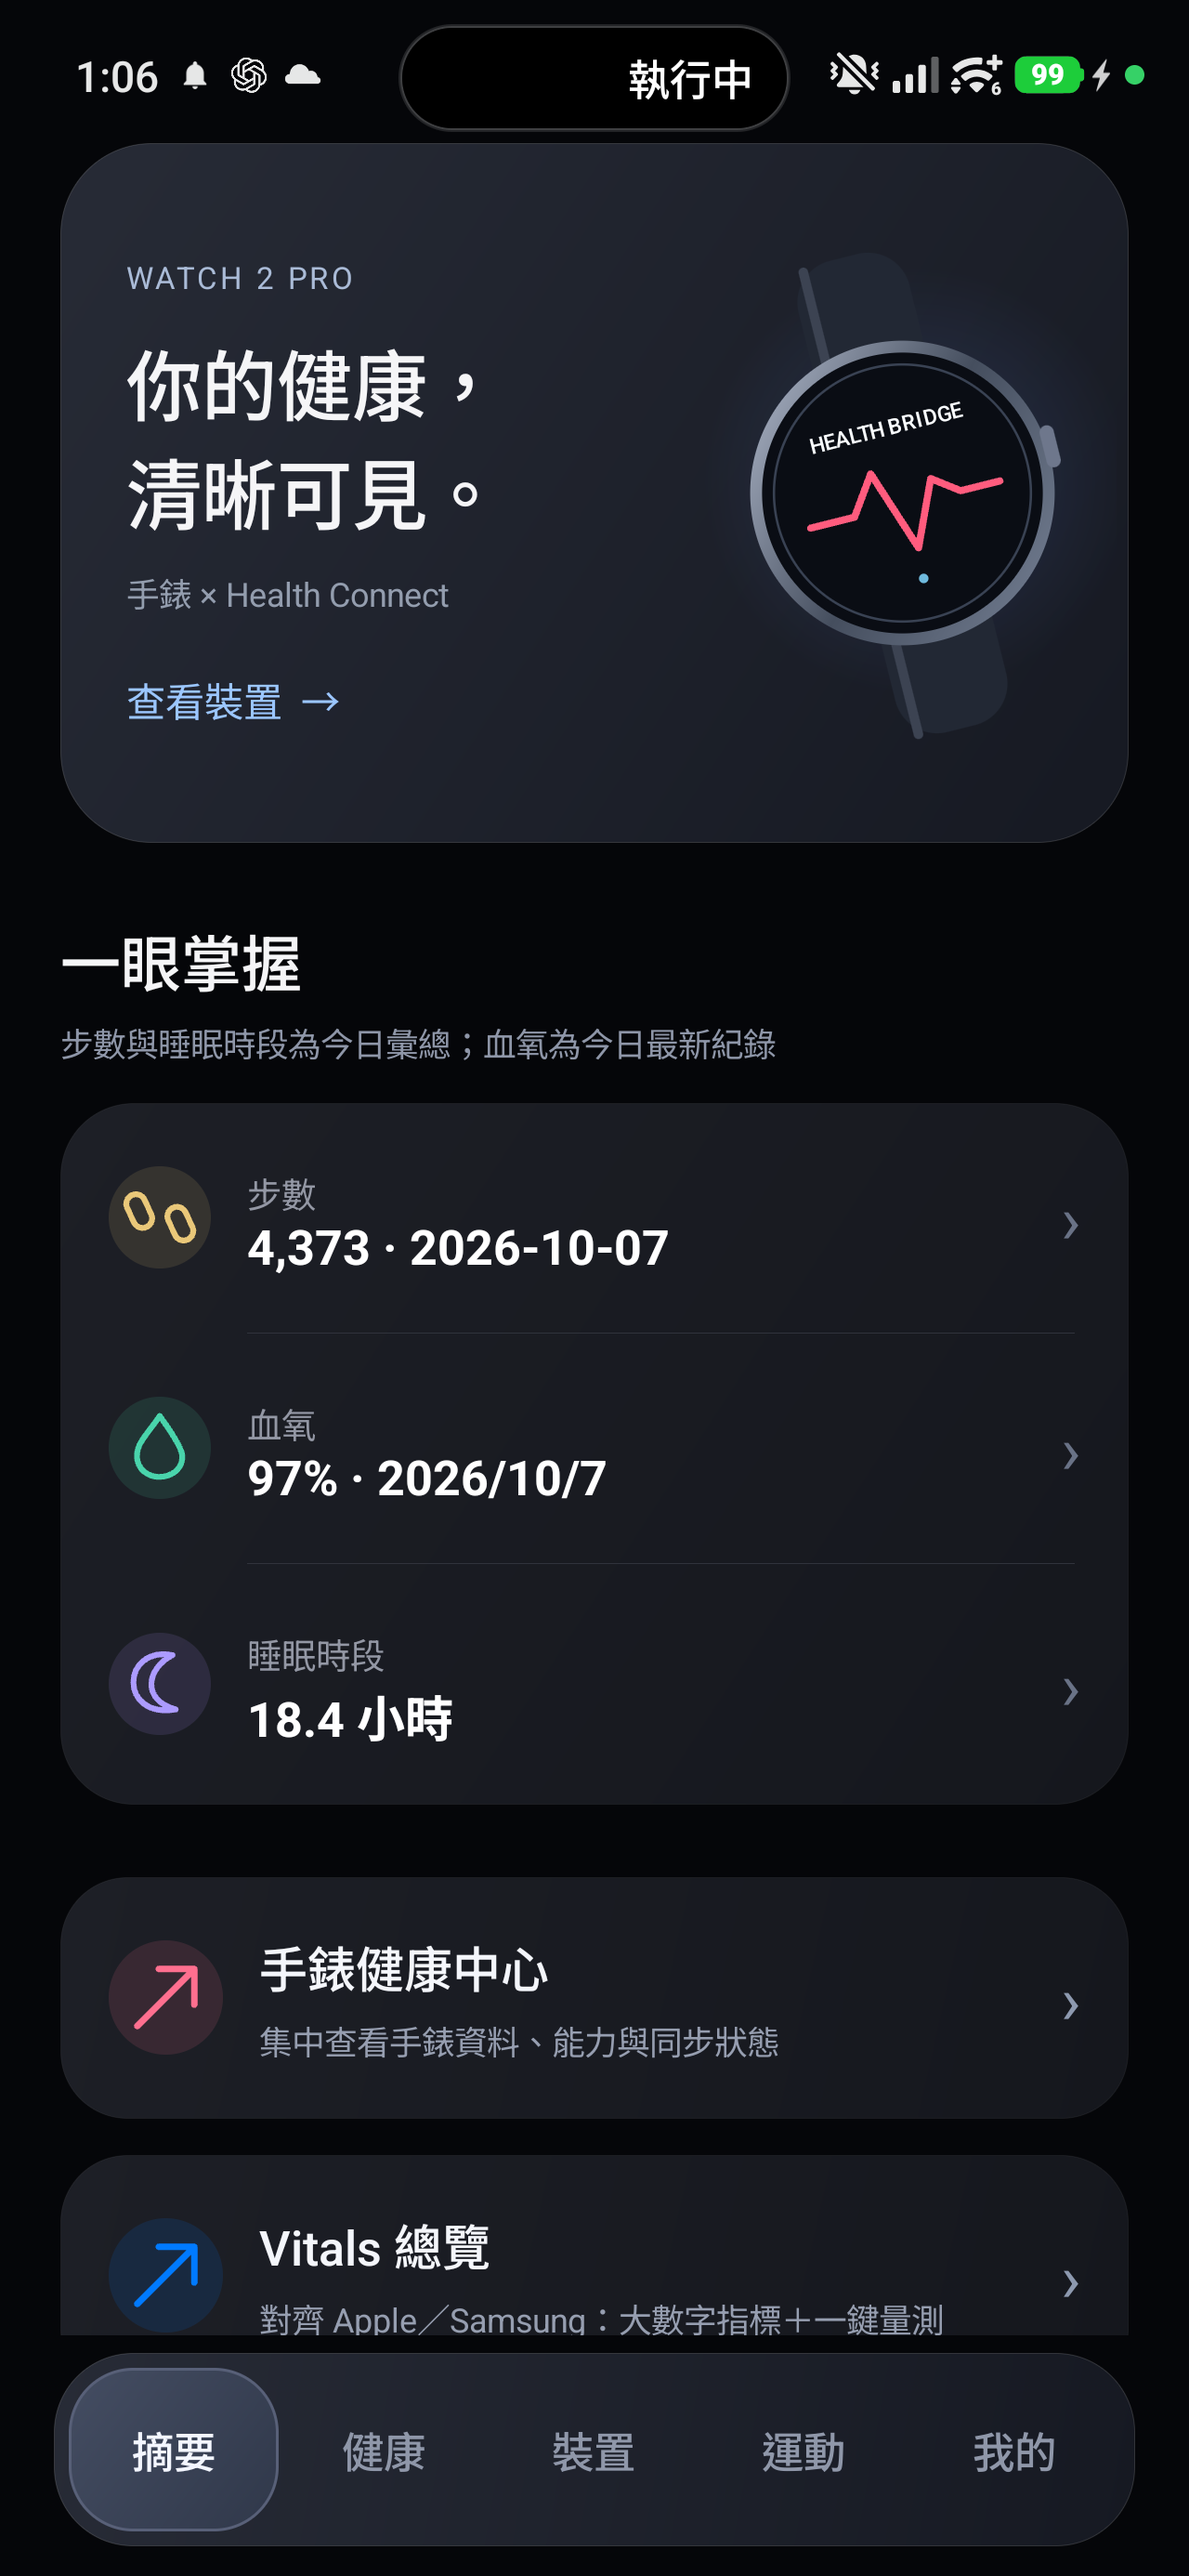
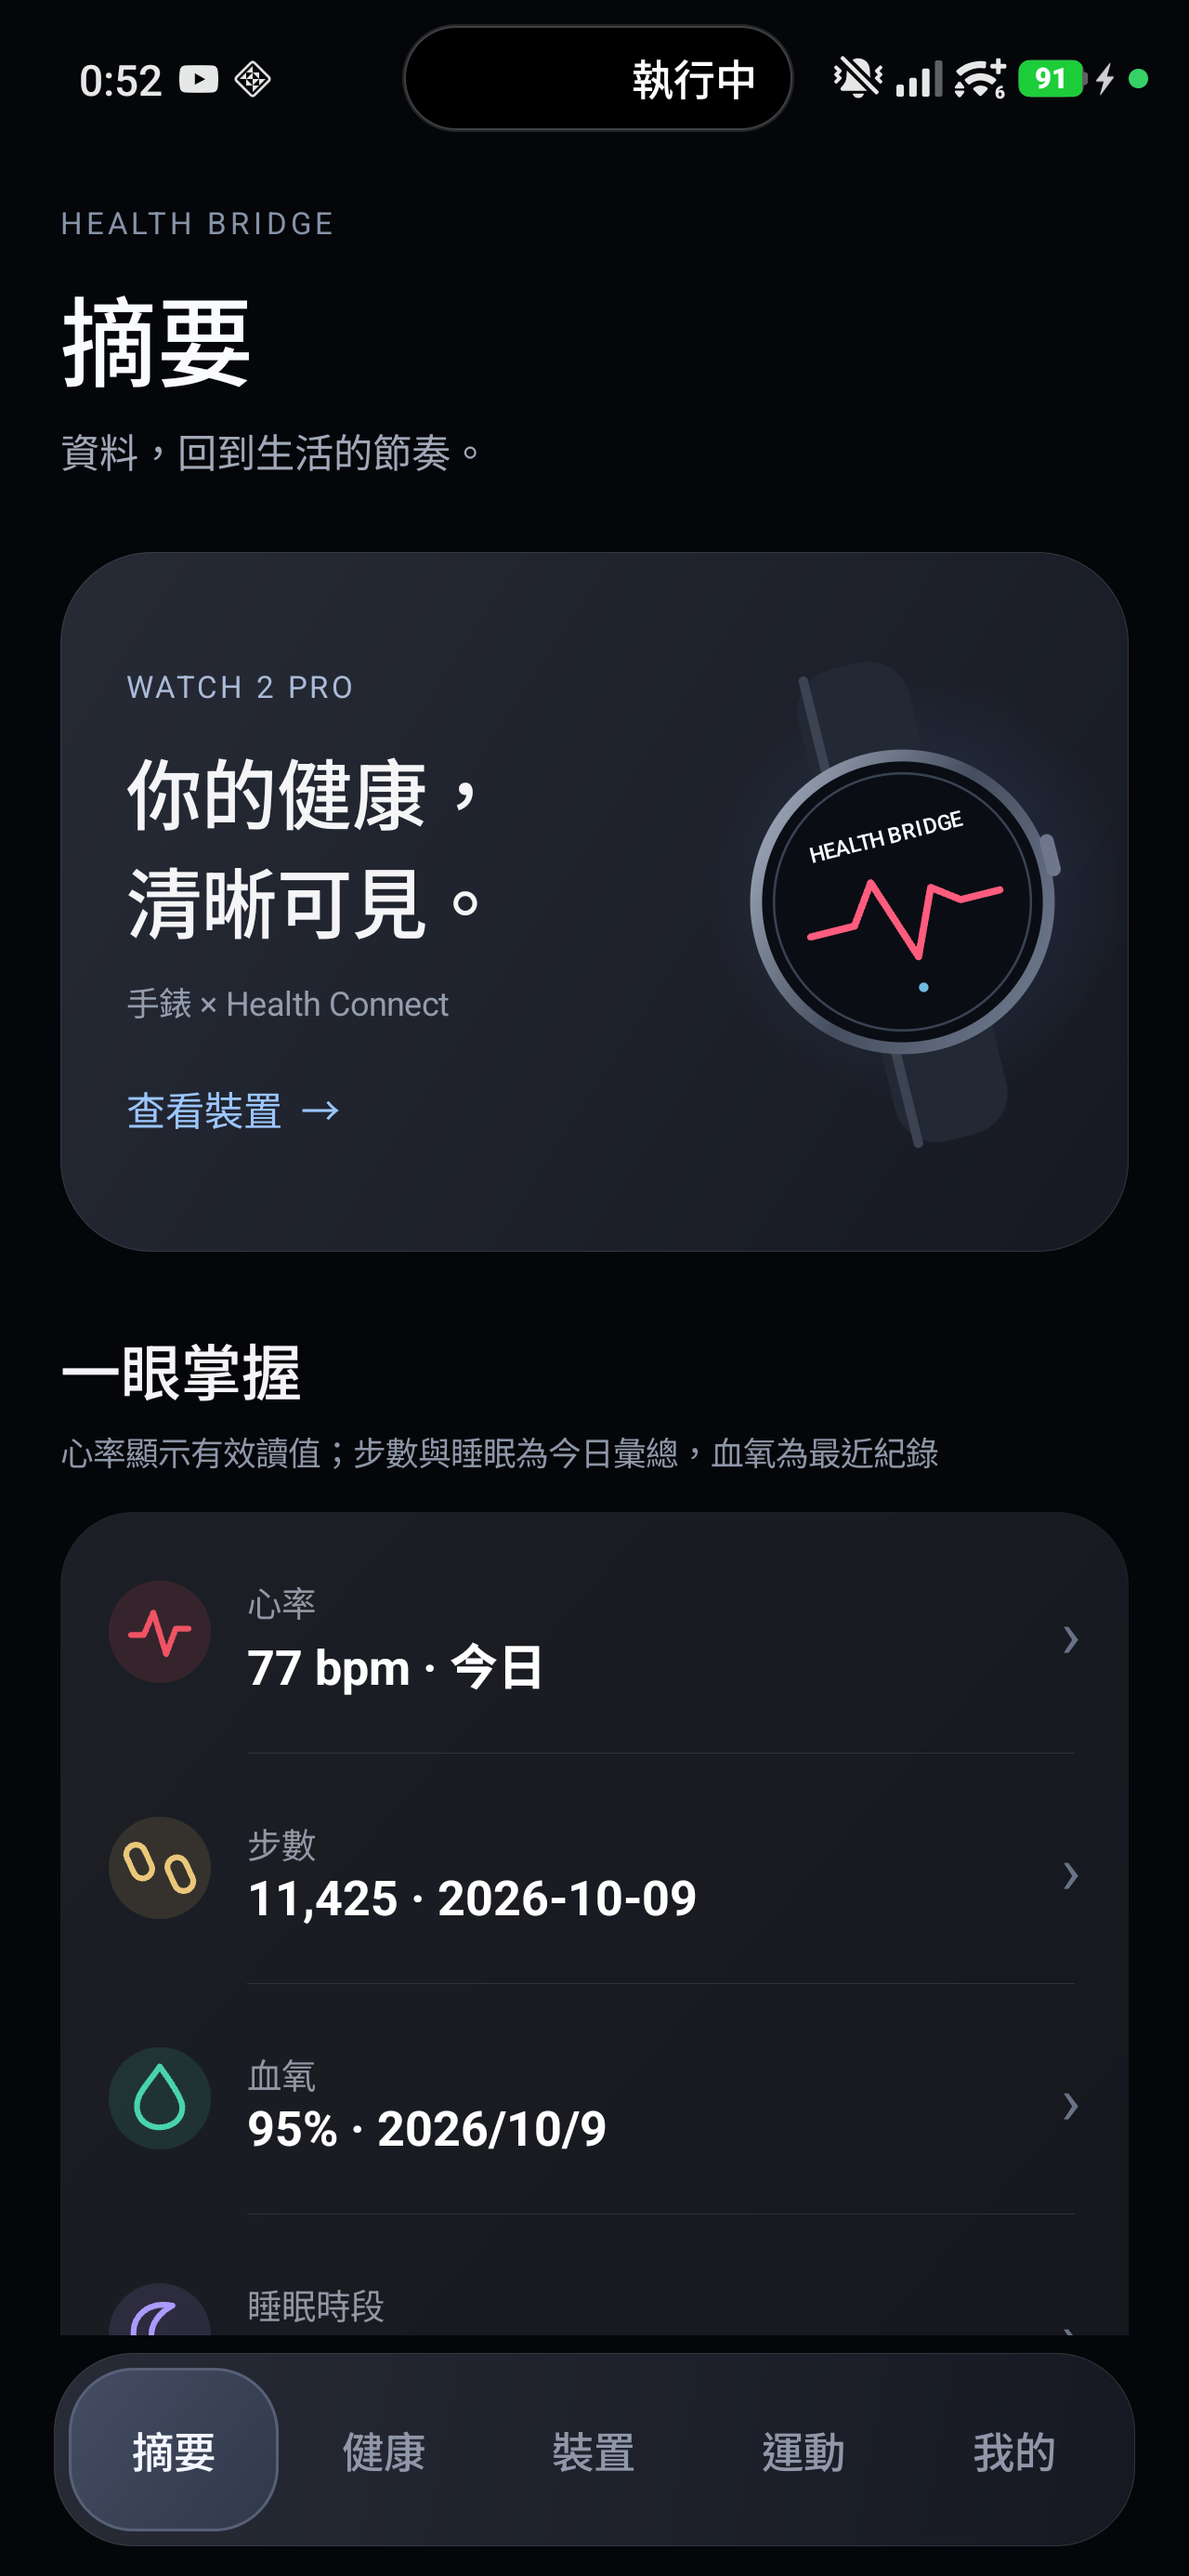
Add bilingual release, privacy, and Play Store documentation

diff --git a/docs/PRIVACY_POLICY.en.md b/docs/PRIVACY_POLICY.en.md
@@ -1,0 +1,13 @@
+# Xiaomi Health Bridge Privacy Policy
+
+Last updated: 2026-11-06 · Developer: Wang You-Jie (王宥傑)
+
+Xiaomi Health Bridge is an open-source health-data research tool connecting an Android phone and a Wear OS watch. It is not a medical device and does not provide diagnosis, treatment, or emergency monitoring.
+
+With explicit permission, the phone app may read or write Health Connect records including heart rate, resting heart rate, HRV, steps, distance, calories, exercise/routes, weight, blood pressure, respiratory rate, oxygen saturation, sleep, temperature, elevation/floors, and hydration. The watch app may use supported body sensors, activity, location, microphone, and Health Services. Data is used on the user's devices to display trends, provenance, quality and sync status, and to synchronize with Health Connect when authorized.
+
+This open-source build has no developer-operated health-data server, advertising SDK, or third-party analytics configured. Phone/watch synchronization uses Google Play services Wearable Data Layer; Android manages Health Connect. Research captures and exports remain in app-private storage or a user-selected destination. User-initiated sharing is governed by the destination service.
+
+Users can revoke Android, Health Connect, or watch permissions and delete associated data through Health Connect, Android app-data controls, or uninstalling the app. Debug logs and exports should be de-identified before sharing. The repository must not contain personal health exports, accounts, device identifiers, network addresses, or signing keys.
+
+The app is not directed to children. For health concerns or emergencies, contact qualified medical professionals or local emergency services. Privacy questions: `s4140666@gmail.com`. Modified redistributions must provide their own policy and Data safety disclosures.

diff --git a/docs/PRIVACY_POLICY.zh-TW.md b/docs/PRIVACY_POLICY.zh-TW.md
@@ -1,0 +1,17 @@
+# Xiaomi Health Bridge 隱私權政策
+
+最後更新：2026-11-06　開發者：王宥傑
+
+Xiaomi Health Bridge 是 Android 手機與 Wear OS 手錶之間的開源健康資料研究工具。本 App 不是醫療器材，不提供診斷、治療或緊急監測。
+
+## 存取與用途
+
+經使用者明確授權後，手機版可透過 Health Connect 讀寫心率、靜止心率、HRV、步數、距離、熱量、運動與路線、體重、血壓、呼吸率、血氧、睡眠、體溫、爬升樓層與飲水等紀錄。手錶版可使用裝置所支援的身體感測器、活動、位置、麥克風與 Health Services；實際項目依裝置、韌體及權限而異。資料僅用於在使用者自己的裝置上顯示趨勢、來源、品質與同步狀態，以及在授權時與 Health Connect 同步。
+
+本開源版本未配置開發者營運的健康資料伺服器、廣告 SDK 或第三方分析。手機與手錶同步使用 Google Play services Wearable Data Layer；Health Connect 由 Android 平台管理。研究原始資料與匯出檔預設留在 App 私有空間或使用者選擇的位置；使用者自行分享的檔案受目的地服務政策約束。
+
+## 控制、刪除與安全
+
+使用者可撤銷 Android、Health Connect 或手錶權限，並可透過 Health Connect、Android App 資料設定或解除安裝刪除相應資料。分享除錯紀錄或研究匯出前應去識別化。儲存庫不應包含個人健康匯出、帳號、裝置識別碼、網路位址或簽章金鑰。
+
+本 App 不以兒童為目標族群。健康疑慮或緊急狀況請聯絡合格醫療人員或當地緊急服務。隱私問題：`s4140666@gmail.com`。自行修改或重新散布者應提供自己的政策與資料安全揭露。

diff --git a/docs/DATA_SAFETY_DECLARATION.md b/docs/DATA_SAFETY_DECLARATION.md
@@ -1,0 +1,11 @@
+# Google Play Data safety working declaration / 資料安全填寫草案
+
+Review this against the exact signed AAB before submission; it is not an automatically submitted declaration.
+
+- Health/fitness data is accessed only for user-authorized app functionality. 健康資料僅用於使用者授權的功能。
+- Watch location may support exercise/location features; microphone access applies only to user-invoked features. 位置與麥克風依功能及權限使用。
+- This source build has no developer health-data backend, ads, or third-party analytics. 此版本無開發者健康後端、廣告或第三方分析。
+- Phone/watch transfer and Health Connect use platform security controls. 同步與 Health Connect 依平台安全機制處理。
+- Users can revoke permissions and delete app/Health Connect data through Android controls. 使用者可撤權並刪除資料。
+
+Before release, audit merged manifests and SDKs, justify every health permission in-app, verify the public privacy URL, inspect the signed AAB, and truthfully complete Health apps, Data safety, content-rating, target-audience, ads, app-access, and deletion declarations.

diff --git a/docs/PLAY_STORE_RELEASE_GUIDE.zh-TW.md b/docs/PLAY_STORE_RELEASE_GUIDE.zh-TW.md
@@ -1,0 +1,13 @@
+# Google Play 上架指南（繁體中文）
+
+開發者／作者：王宥傑　套件：`com.jaysato.xiaomihealthbridge`　版本：3.13.44（154）
+
+GitHub Release 的 APK 是 Debug 側載測試版，不可當作 Play Store 正式版本。商店版必須使用正式簽章 Android App Bundle（AAB）與 Play App Signing。
+
+1. 在 Play Console 建立「健康與健身」App。
+2. 建立並備份 upload keystore，絕不把金鑰或密碼提交 GitHub；依 `docs/release-signing.md` 配置後執行 `./gradlew :mobile:bundleRelease :wear:bundleRelease`。
+3. 驗證 applicationId、versionCode、簽章、權限，以及手機／Wear 模組符合最新多裝置發布規則。
+4. 填妥中英文商店說明、隱私網址、資料安全、Health apps declaration、內容分級、目標族群、廣告與 App access。
+5. 先上傳 Internal testing，以實機驗證安裝、配對、權限、同步、資料刪除及無資料狀態；通過 pre-launch report 後才逐步發布。
+
+商店文案不得宣稱診斷、治療、疾病偵測、緊急監測或臨床準確度。

diff --git a/docs/PLAY_STORE_RELEASE_GUIDE.en.md b/docs/PLAY_STORE_RELEASE_GUIDE.en.md
@@ -1,0 +1,9 @@
+# Google Play Release Guide
+
+Developer/author: Wang You-Jie (王宥傑) · Package: `com.jaysato.xiaomihealthbridge` · Version: 3.13.44 (154)
+
+The GitHub APKs are debug sideload builds, not Play Store production binaries. Google Play requires a release-signed Android App Bundle and Play App Signing.
+
+Create the Health & Fitness app in Play Console; securely create/back up an upload key; keep keys and passwords out of GitHub; configure `docs/release-signing.md`; and build `./gradlew :mobile:bundleRelease :wear:bundleRelease`. Verify application ID, version code, signing, permissions, and the current phone/Wear packaging rules. Complete bilingual listings, privacy URL, Data safety, Health apps declaration, content rating, target audience, ads, and app access. Validate installation, pairing, permissions, sync, deletion, and empty/error states through Internal testing on real hardware before staged rollout.
+
+Do not claim diagnosis, treatment, disease detection, emergency monitoring, clinical accuracy, or medical-device status.

diff --git a/README.en.md b/README.en.md
@@ -17,6 +17,8 @@ Current version: `3.13.44` (versionCode `154`). The source tree contains:
 
 ![Phone summary screen demonstration](docs/images/mobile-summary-demo.png)
 
+All screenshots are demo screens containing no personal data. More examples: [summary navigation](docs/images/mobile-summary-navigation-demo.png), [health metrics](docs/images/mobile-health-grid-demo.png), and [ECG research limitations](docs/images/ecg-research-limitations-demo.jpg).
+
 ## What it does
 
 - Uses Wear OS Health Services for supported heart-rate and activity data.
